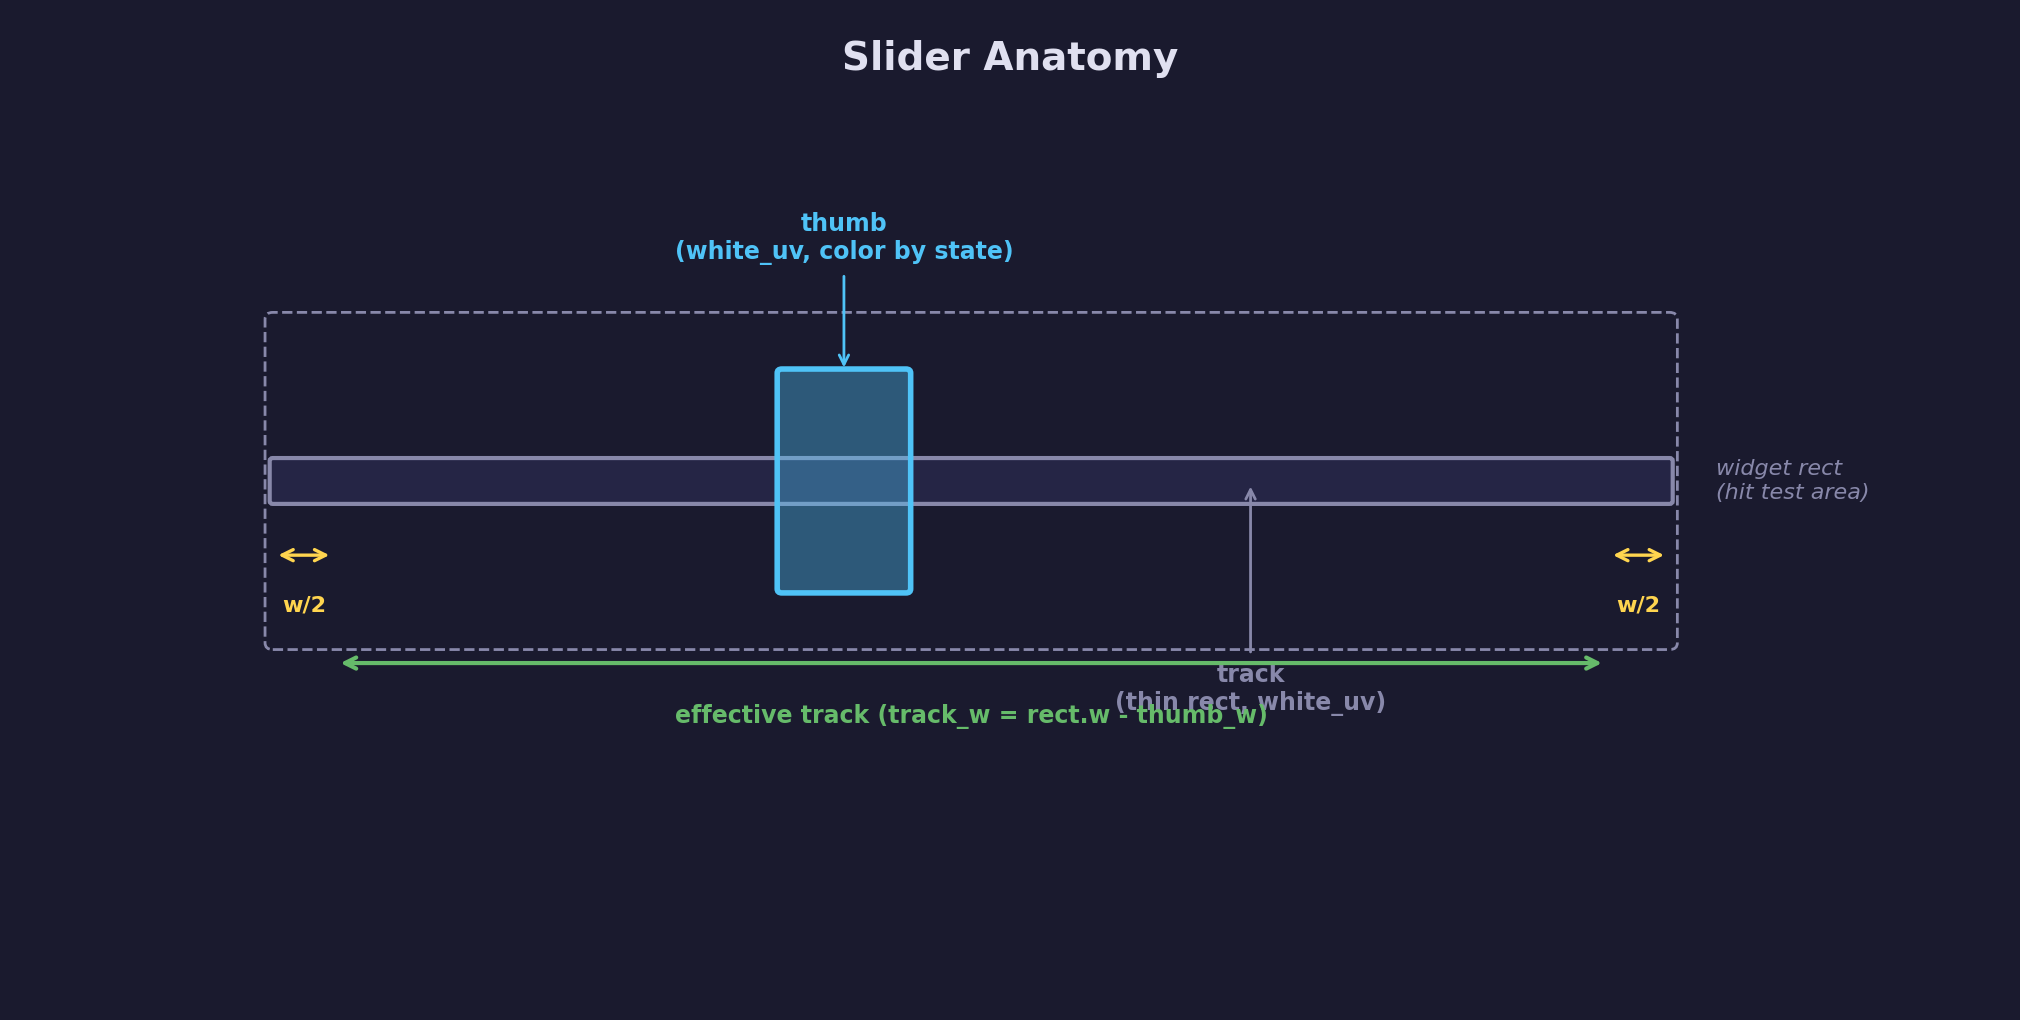
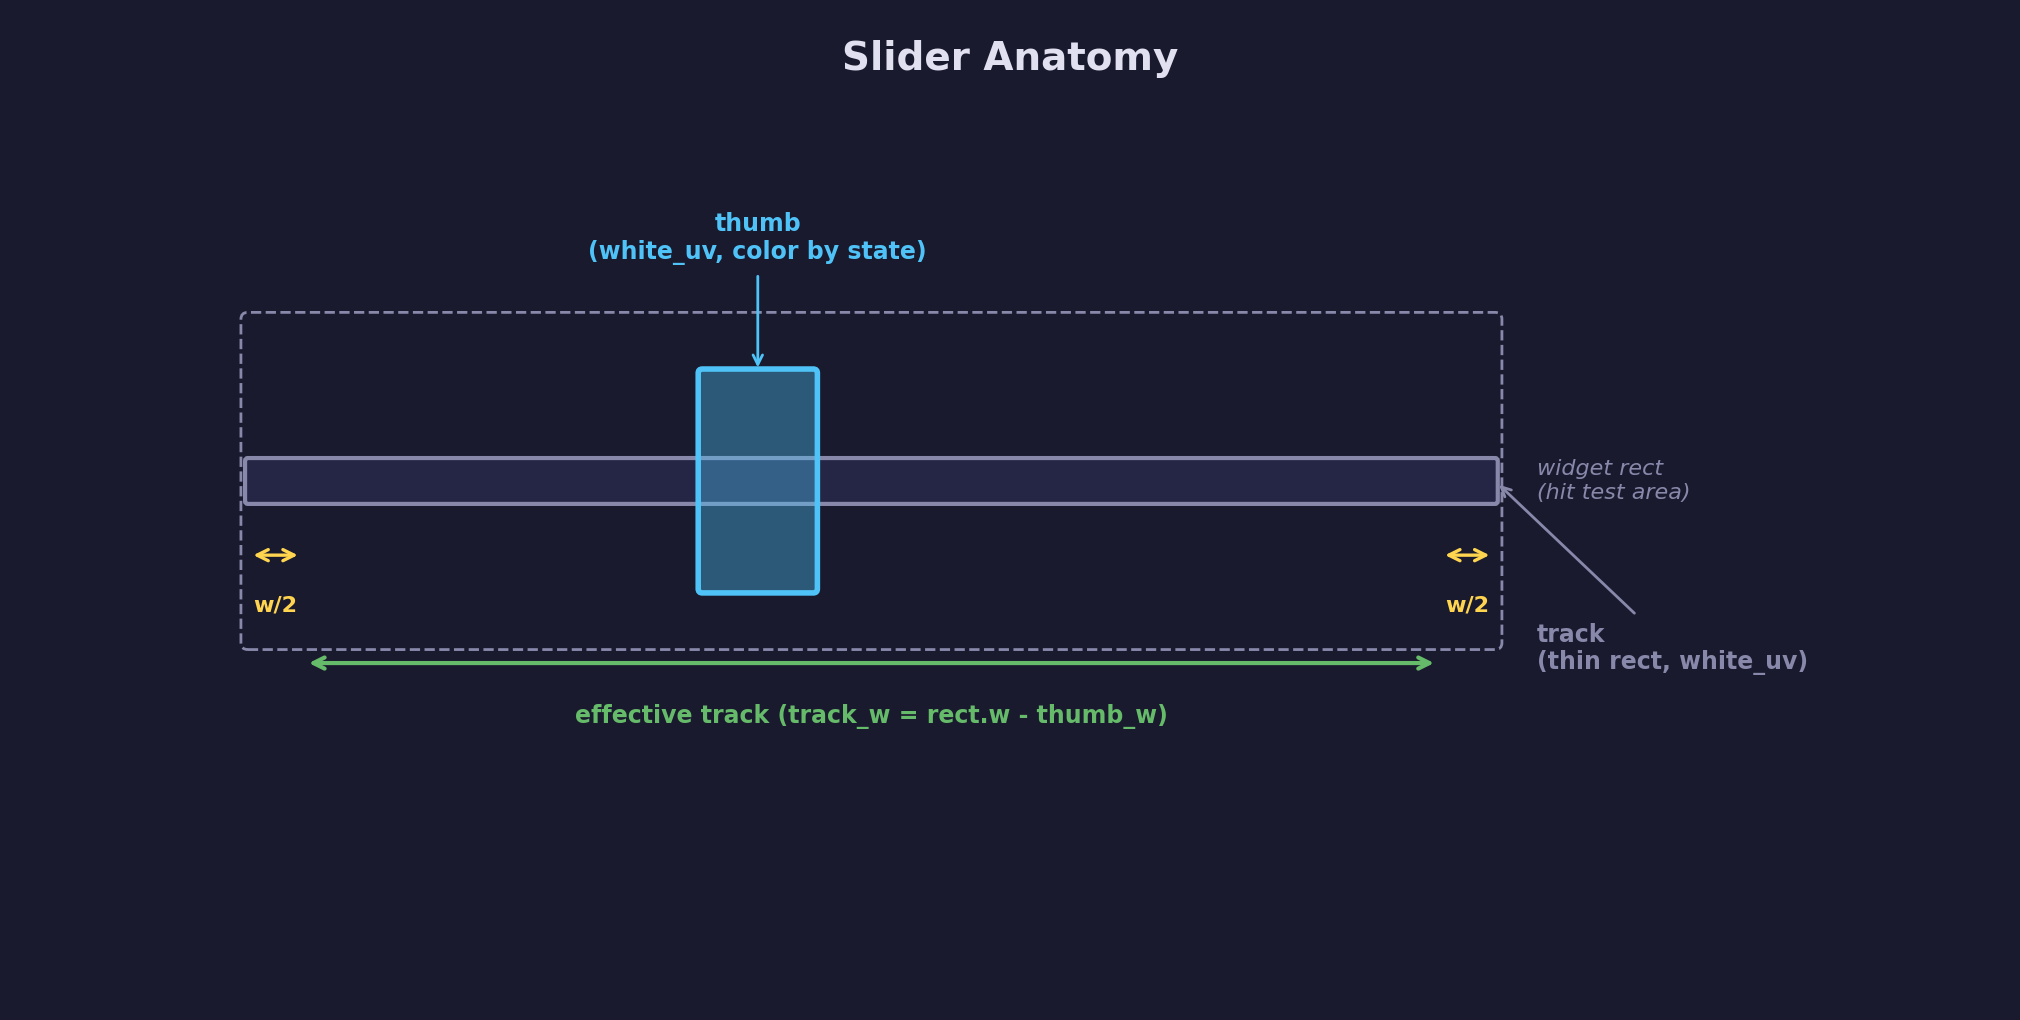
Fix overlapping labels in slider anatomy diagram
Move the "track" label from below-center (where it collided with the
"effective track" label) to the right side of the diagram, and widen
the x-axis range to give all right-side labels room to breathe.

https://claude.ai/code/session_01UxMKFsiCNdZqPDQZaGMYHi

diff --git a/scripts/forge_diagrams/ui_diagrams.py b/scripts/forge_diagrams/ui_diagrams.py
@@ -3639,7 +3639,7 @@ def diagram_slider_anatomy():
 
     fig, ax = plt.subplots(figsize=(10, 5))
     fig.patch.set_facecolor(STYLE["bg"])
-    setup_axes(ax, xlim=(-0.5, 12), ylim=(-1.5, 5), grid=False, aspect=None)
+    setup_axes(ax, xlim=(-0.5, 13.5), ylim=(-1.5, 5), grid=False, aspect=None)
     ax.axis("off")
 
     ax.set_title(
@@ -3710,15 +3710,16 @@ def diagram_slider_anatomy():
     ax.add_patch(thumb)
 
     # Labels
-    # Track label
+    # Track label — placed to the right of the track to avoid overlapping
+    # the effective-track annotation below
     ax.annotate(
         "track\n(thin rect, white_uv)",
-        xy=(rx + rw * 0.7, track_y + track_h / 2),
-        xytext=(rx + rw * 0.7, track_y - 1.2),
+        xy=(rx + rw, track_y + track_h / 2),
+        xytext=(rx + rw + 0.3, track_y - 0.9),
         arrowprops=dict(arrowstyle="->", color=STYLE["text_dim"], lw=1.0),
         color=STYLE["text_dim"],
         fontsize=8.5,
-        ha="center",
+        ha="left",
         va="top",
         fontweight="bold",
     )
